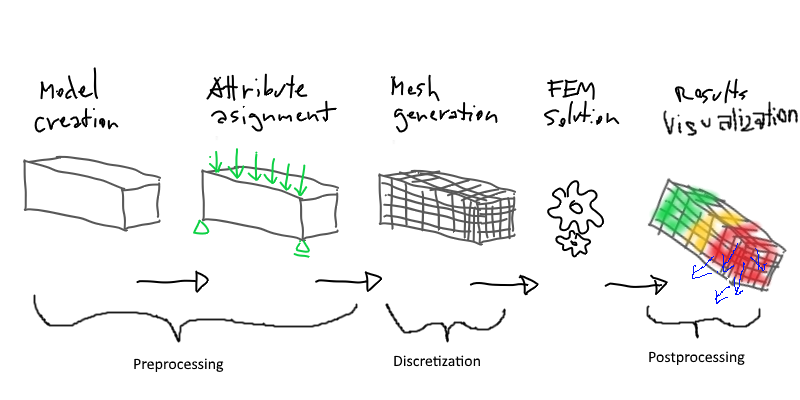
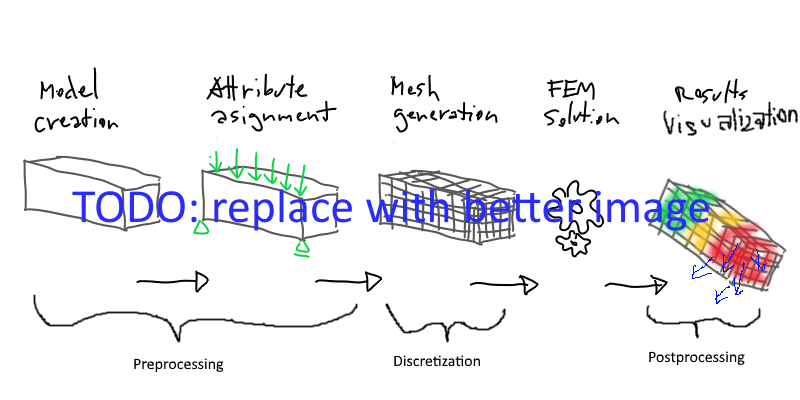
Update images in Introduction. Add TODO markers to empty sections

Changed region(s): [[0.0938, 0.48, 0.9062, 0.57]]

diff --git a/chapters/3-data-management.tex b/chapters/3-data-management.tex
@@ -301,19 +301,27 @@ The architecture of the data management system is designed as modular and it con
 %- Relational database
 %Project-related data are stored in SQL database. The data are stored in tables Project, Simulation, User? ...
 
+TODO: \ldots
+
 \subsection*{FEM results storage}
 %- Blob storage
 %- documents
+
+TODO: \ldots
 
 \subsection*{FEM results converter}
 % Azure Functions, Webjob
 % umi pracovat take jako command-based console management - popsat prikazy;
 % zminit pouzite technologie a knihovny, napr. RedSVD
- 
+
+TODO: \ldots
+
 \subsection*{Web API service}
 % Storage format nemuze existovat sam o sobe. Jeho soucasti je cloud-based API, ktere s nim umoznuje manipulovat, vytvaret vrstvy, odpovidat na dotazy...
 % ASP.NET Core
 % Aggregation, Communication API providing, REST API, interface, backend providing project info
+
+TODO: \ldots
 
 \subsection*{Web post-processor}
 % Presentation layer, Frontend, Data consuming and presenting
@@ -323,6 +331,10 @@ The architecture of the data management system is designed as modular and it con
 % Webový browser, WebGL, THREE.js, Aurelia, Typescript, Command line tool (shell), veškeré zpracování příkazů na serveru, na klient se budou posílat jen grafické buffery
 % Jak probiha komunikace s API a dotaz na vrstvy. Jak probiha cely proces dotazu a zobrazeni dat ve webovem postprocesoru. Jak funguje RemoteSolutionController. Remote/Local solutions - neni rozdil, postprocessor je tenky klient
 
+TODO: \ldots
+
 \subsection*{Desktop post-processor}
 % zobrazuje data z local i z remote storage
 % odkazat se na kapitoly 4,5 - plynule navazat na dalsi kapitolu (Mesh visualization)
+
+TODO: \ldots

diff --git a/chapters/7-results.tex b/chapters/7-results.tex
@@ -1,9 +1,11 @@
 \chapter{Overall results and evaluation}
 \label{chapter:overall-results}
- % Results and evaluation; tables; images
+% Results and evaluation; tables; images
 
- % obrázky obou postprocessoru (desktop, web-based), různé filtry - řezy, isoplochy (temelin a karluv most bude vypadat pekne (chotkova a shear beam uz jsou pouzity v predchozich kapitolach))
+% obrázky obou postprocessoru (desktop, web-based), různé filtry - řezy, isoplochy (temelin a karluv most bude vypadat pekne (chotkova a shear beam uz jsou pouzity v predchozich kapitolach))
 
- % Zmerit latenci - pocatecni delay, pred zobrazenim site/dat. Zmerit pocet snimku za sekundu. Porovnat napr s tradicnim postprocesorem a pak se Simscale? Zmerit pametovou narocnost puvodniho a noveho postprocesoru (porovnat s GiDem jako s tradicnim postprocesorem).
+% Zmerit latenci - pocatecni delay, pred zobrazenim site/dat. Zmerit pocet snimku za sekundu. Porovnat napr s tradicnim postprocesorem a pak se Simscale? Zmerit pametovou narocnost puvodniho a noveho postprocesoru (porovnat s GiDem jako s tradicnim postprocesorem).
 
- % vysvetlit, proc jsem navrhl tyto testy a benchmarky. Co se snazim dokazat? Snazim se ospravedlnit vyvoj noveho formatu a kompresni metody...
+% vysvetlit, proc jsem navrhl tyto testy a benchmarky. Co se snazim dokazat? Snazim se ospravedlnit vyvoj noveho formatu a kompresni metody...
+
+TODO: \ldots

diff --git a/main.tex b/main.tex
@@ -259,7 +259,7 @@ Building and Structural Engineering \\[0.5cm] % Supervisor name
 
 \begin{declaration}
 \addchaptertocentry{\authorshipname} % Add the declaration to the table of contents
-\ldots
+TODO: \ldots
 %\noindent I, \authorname, declare that this thesis titled, \enquote{\ttitle} and the work presented in it are my own. I confirm that:
 
 %\begin{itemize} 
@@ -287,7 +287,7 @@ Building and Structural Engineering \\[0.5cm] % Supervisor name
 \begin{abstract}
 \addchaptertocentry{\abstractname} % Add the abstract to the table of contents
 %The Thesis Abstract is written here (and usually kept to just this page). The page is kept centered vertically so can expand into the blank space above the title too
-\ldots
+TODO: \ldots
 \end{abstract}
 
 %----------------------------------------------------------------------------------------
@@ -297,7 +297,7 @@ Building and Structural Engineering \\[0.5cm] % Supervisor name
 \begin{acknowledgements}
 \addchaptertocentry{\acknowledgementname} % Add the acknowledgements to the table of contents
 %The acknowledgments and the people to thank go here, don't forget to include your project advisor
-\ldots
+TODO: \ldots
 \end{acknowledgements}
 
 %----------------------------------------------------------------------------------------

diff --git a/chapters/8-conclusion.tex b/chapters/8-conclusion.tex
@@ -6,3 +6,5 @@
 % shrnuti, co se povedlo, co se nepovedlo (nedostatky jednotlivych metod reseni - aproximace nevhodna napr pro diskontinuity, SVD super)
 % future work?
 % moznosti pro vylepseni SVD komprese: main features for optimization: key time steps (time step span compression), Randomized SVD, Parallelization, Sparse matrix of details, prenasobeni U matice singularnimi cisly, trochu usetrim pamet, mohu pouzit vzorkovani... % See chapter \ref{chapter:SVD}
+
+TODO: \ldots

diff --git a/chapters/2-related-work.tex b/chapters/2-related-work.tex
@@ -6,3 +6,5 @@
 % VTK format podporuje kompresi, ale bez znalosti obsahu dat. Pouze nejakou ZIP kompresi ci co. Neni to tak efektivni. Kazdy casovy krok ulozeny zvlast. Ale umi ukladat v ascii i binarne (base64 kodovani)
 
 % Vrstva je koncept, ktery se vyskytuje i u jinych postprocessoru (uvest priklady v kapitole Related work napr. Simscale)
+
+TODO: \ldots
